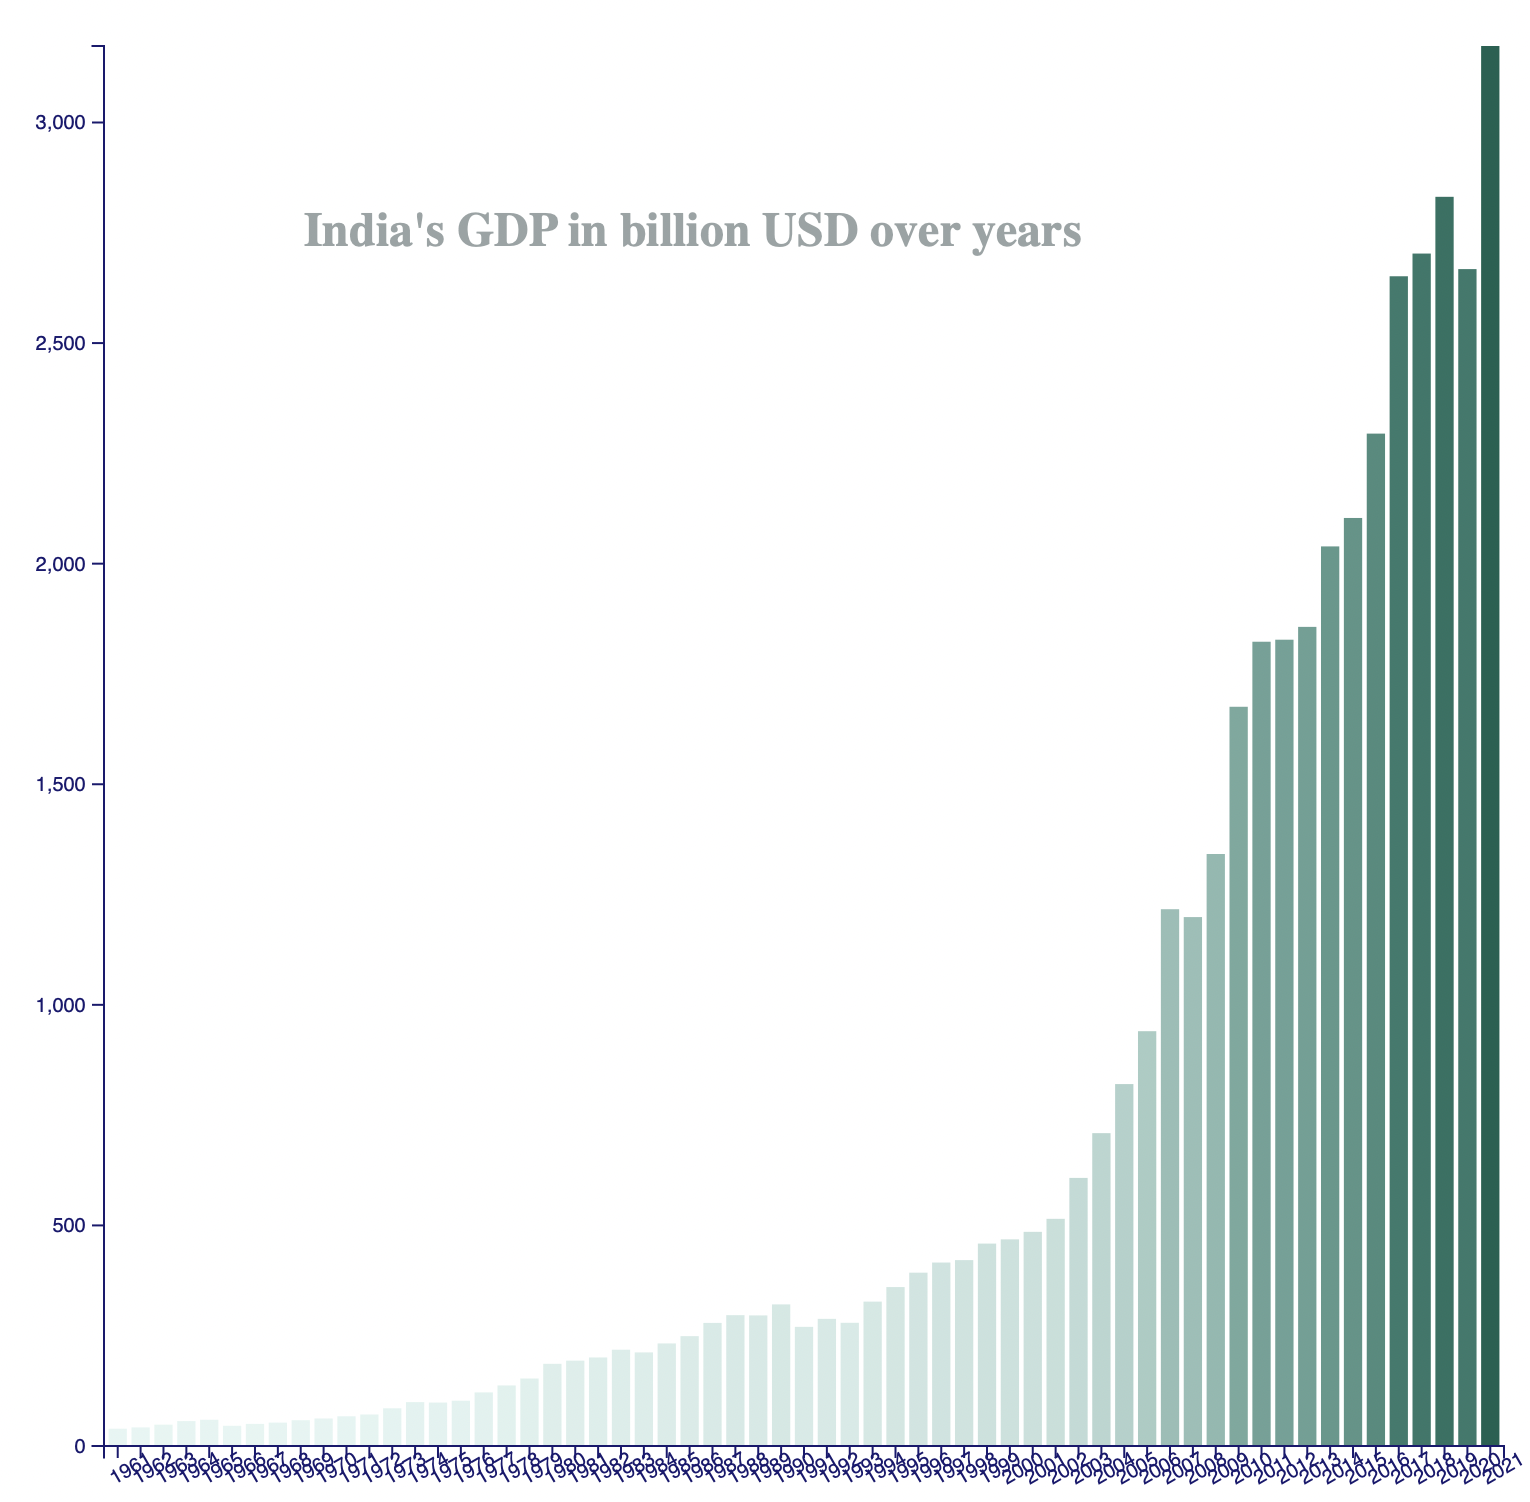
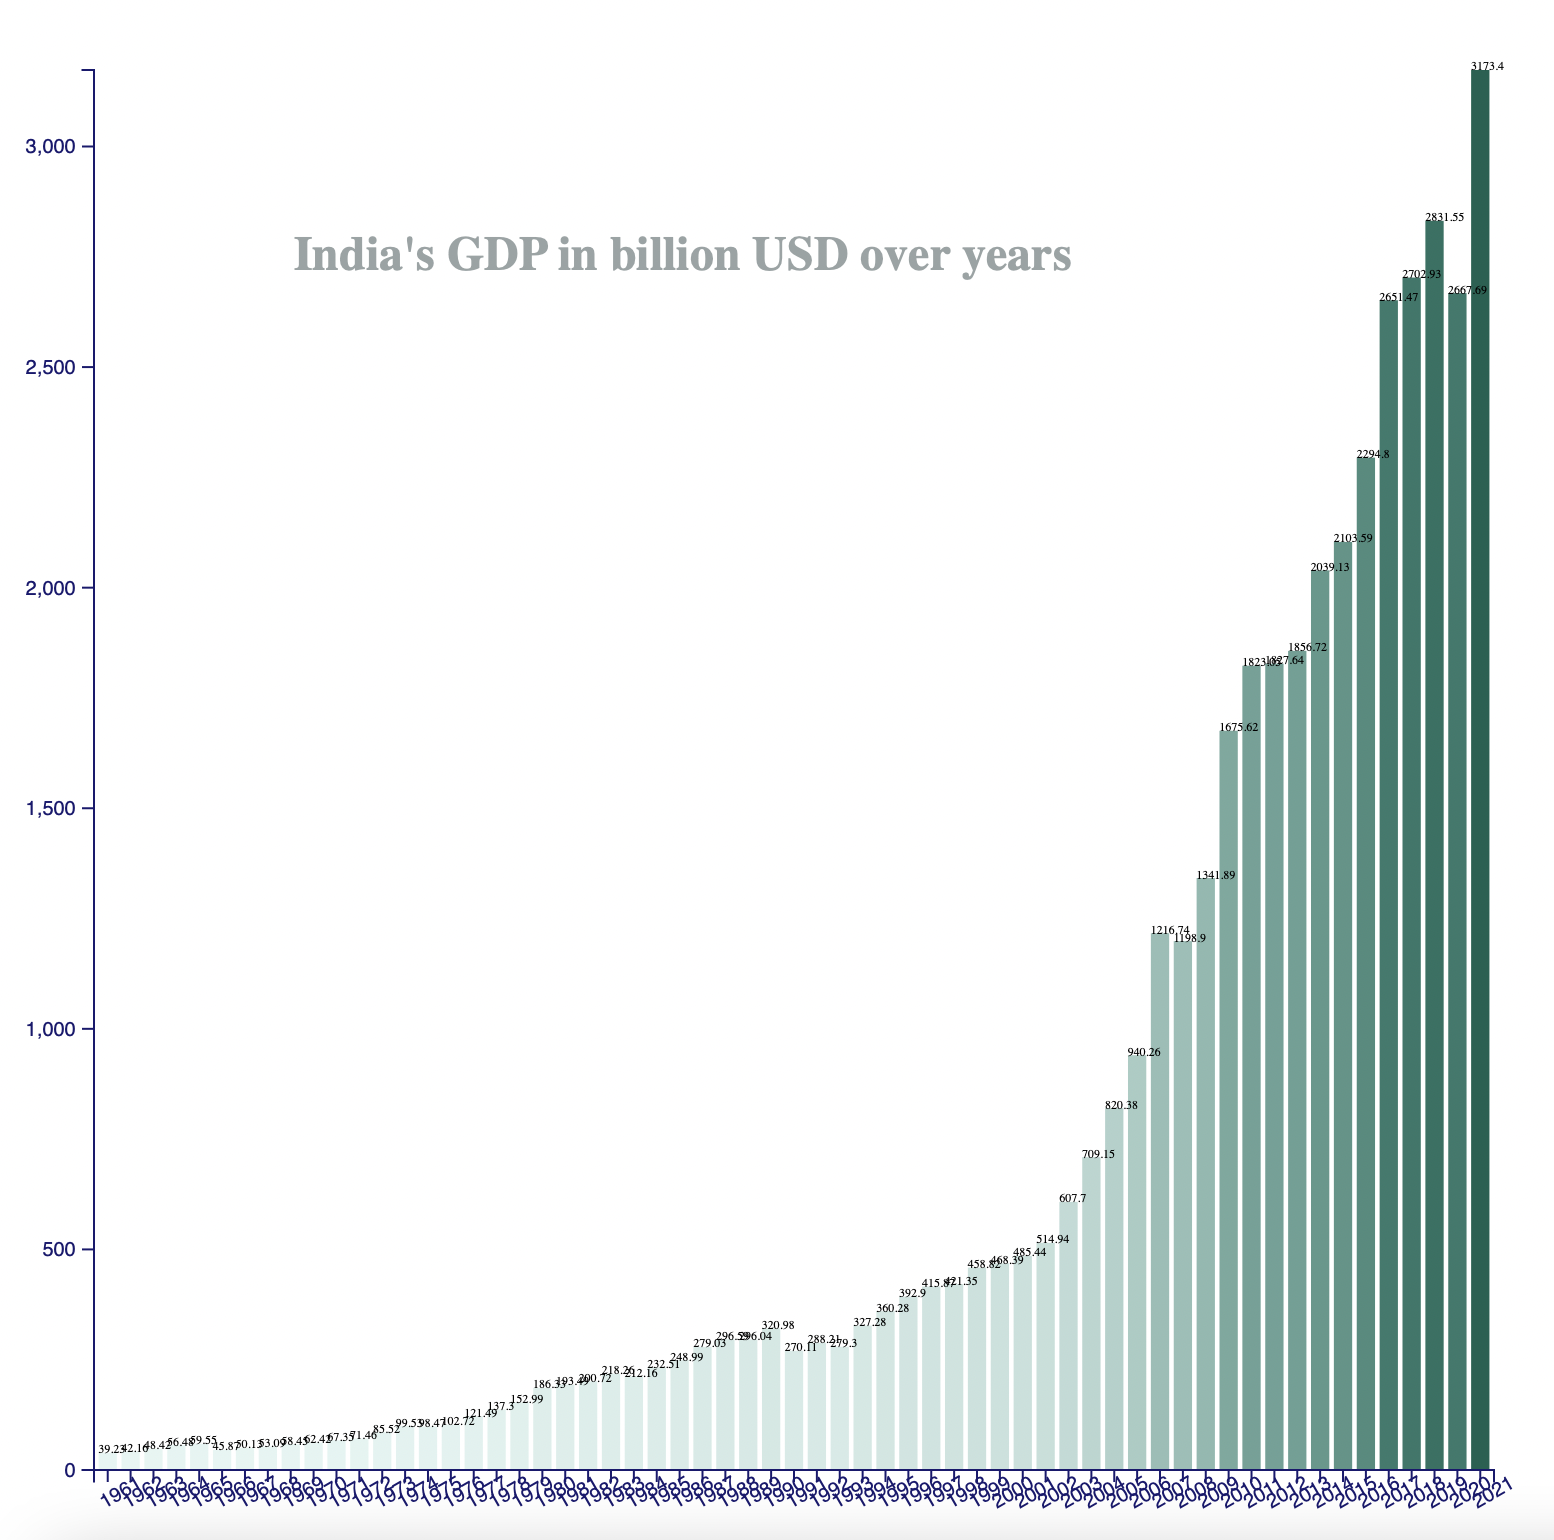
Added labels and updated readme

diff --git a/D3 Foundations Pt 2/India_GDP_Bar_Chart.html b/D3 Foundations Pt 2/India_GDP_Bar_Chart.html
@@ -31,6 +31,12 @@
                 color: midnightblue;
             }
 
+            /*doesnt work*/
+            #c1.bartext text{ 
+                font-size: 10px;
+                transform: rotate(-30deg);
+            }
+
         </style>
     </head>
     <body>
@@ -109,6 +115,16 @@
                         .attr("font-size", "24px")
                         .attr("font-weight", "bold")
                         .attr("fill", "#99A3A4");
+                
+                svg_gdp.selectAll(".barText")
+                        .data(dataset)
+                        .enter()
+                        .append("text")
+                        .attr("x", d => xScale(d.year))
+                        .attr("y", d => yScale_gdp(d.gdp_in_billion_usd))
+                        .text(d => d.gdp_in_billion_usd)
+                        .attr("font-size", "6px");
+
 
                 // chart 2 scale calibration
                 const maxY_per_capita = d3.max(dataset, d => d.per_capita_in_usd);
@@ -155,6 +171,15 @@
                             .attr("font-size", "24px")
                             .attr("font-weight", "bold")
                             .attr("fill", "#99A3A4");
+
+                svg_per_capita.selectAll(".barText")
+                            .data(dataset)
+                            .enter()
+                            .append("text")
+                            .attr("x", d => xScale(d.year))
+                            .attr("y", d => yScale_per_capita(d.per_capita_in_usd))
+                            .text(d => d.per_capita_in_usd)
+                            .attr("font-size", "6px");
                 
                 // chart 3 scale calibration
                 
@@ -219,6 +244,15 @@
                                 .attr("font-size", "24px")
                                 .attr("font-weight", "bold")
                                 .attr("fill", "#99A3A4");
+
+                svg_percentage_growth.selectAll(".barText")
+                                    .data(dataset)
+                                    .enter()
+                                    .append("text")
+                                    .attr("x", d => xScale(d.year))
+                                    .attr("y", d => d.percentage_growth >= 0 ? yScale_percentage_growth_plus(d.percentage_growth) : yScale_percentage_growth_minus(d.percentage_growth) + 6)
+                                    .text(d => d.percentage_growth)
+                                    .attr("font-size", "6px");
                 
                 // Chart 4 horizontal bar chart
                 const yScale_gdp_horizontal = d3.scaleBand()
@@ -274,6 +308,15 @@
                             .attr("font-size", "24px")
                             .attr("font-weight", "bold")
                             .attr("fill", "#99A3A4");
+
+                svg_gdp_horizontal.selectAll(".barText")
+                                .data(dataset)
+                                .enter()
+                                .append("text")
+                                .attr("x", d => xScale_gdp_horizontal(d.gdp_in_billion_usd) + 3)
+                                .attr("y", d => yScale_gdp_horizontal(d.year) + 6)
+                                .text(d => d.gdp_in_billion_usd)
+                                .attr("font-size", "6px");
                 
                 console.log(dataset);
 

diff --git a/D3 Foundations Pt 2/README.md b/D3 Foundations Pt 2/README.md
@@ -11,7 +11,7 @@
   4. Chart 4
   
 **About**</br>
-This directory contains a foundational script for creating bar charts using d3 in javascript, html & css. I have attempted to create four plots using an external open-source dataset about India's GDP growth over years. While creating this plots, I have tried to include a few variations in the bar charts including bar charts with only positive metrics, bar chart with both positive and negetive metrics & horizontal bar chart. While doing this I have also played around with d3 scales(band, linear and color).
+This directory contains a foundational script for creating bar charts using d3 in javascript, html & css. I have attempted to create four plots using an external open-source dataset about India's GDP growth over years. While creating this plots, I have tried to include a few variations in the bar charts including bar charts with only positive metrics, bar chart with both positive and negetive metrics & horizontal bar chart. While doing this I have also played around with d3 scales(band, linear and color). Further, I tried to play with data labels within these plots.
 
 **Datasets**</br>
 I used the [GDP Growth of India](https://www.kaggle.com/datasets/imbikramsaha/indian-gdp) dataset which I found on Kaggle. It is a open source and relatively simple and clean dataset, which can be directly used to create charts without any data cleaning.
